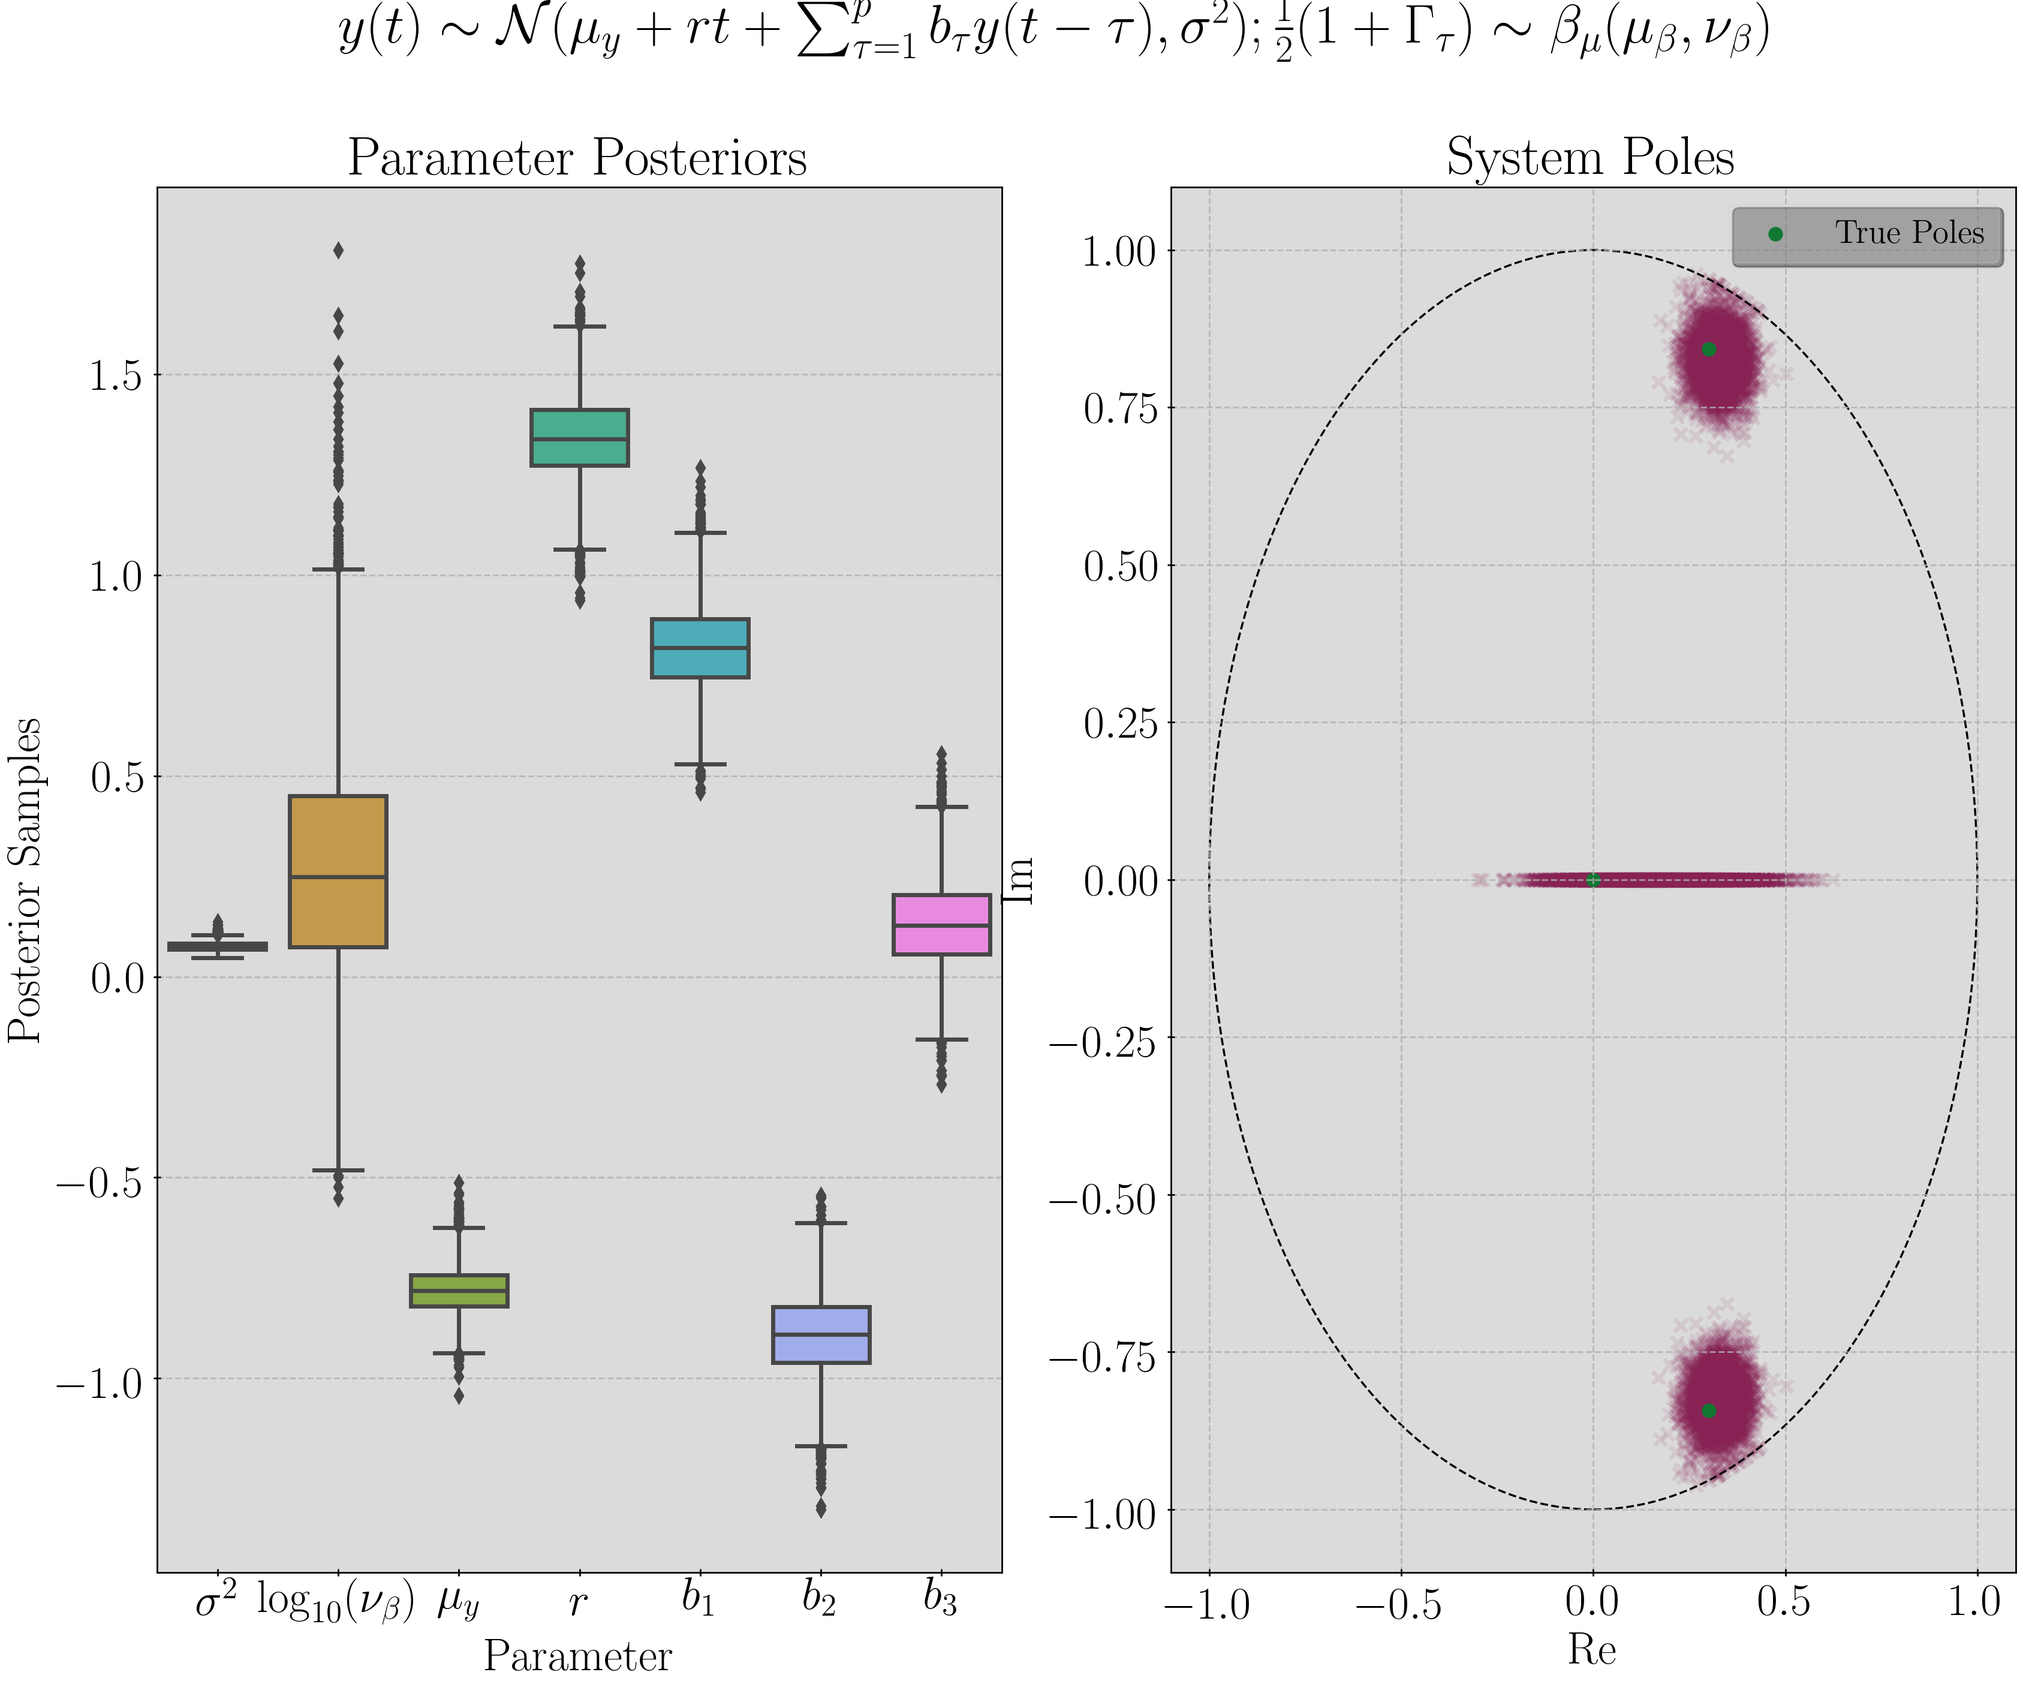
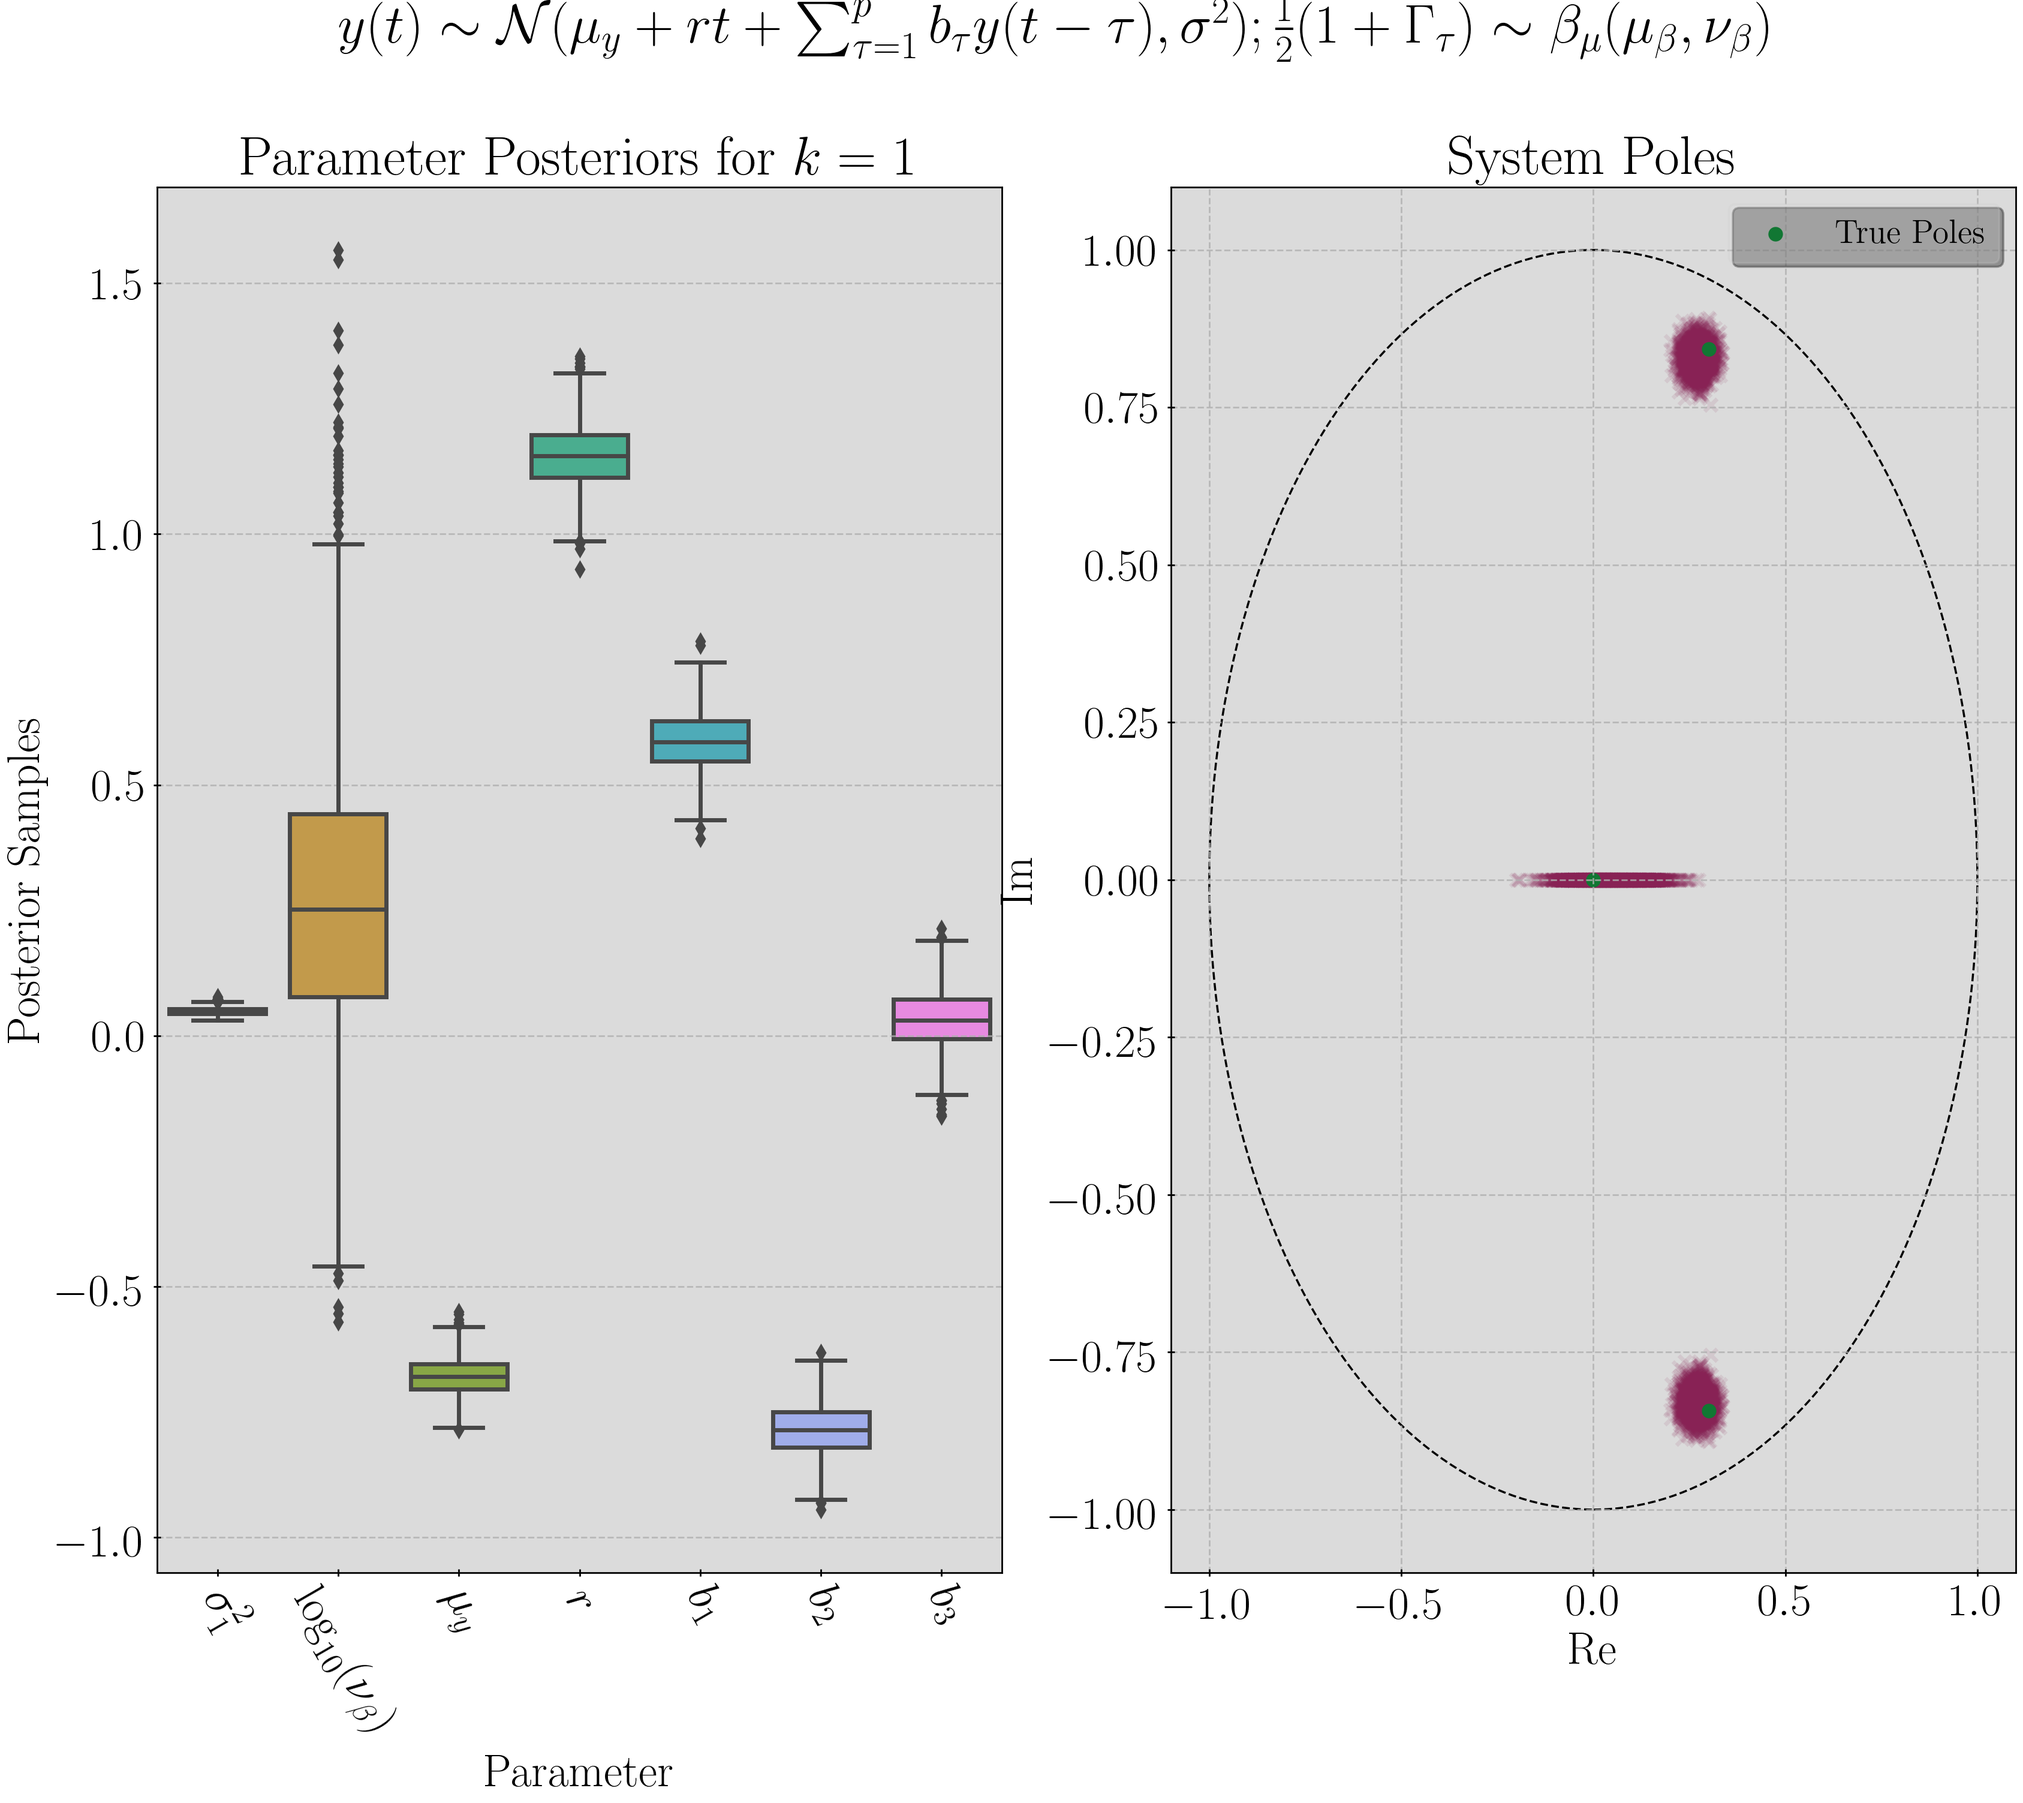
Put a prior back on gamma.

diff --git a/stanlearn/examples/time_series.py b/stanlearn/examples/time_series.py
@@ -66,12 +66,12 @@ def basic_example():
     return
 
 
-def mixture_example():
+def mixture_example1():
     p_max = 5
     T = 1000
     v = 0.25 * np.random.normal(size=T + p_max)
     y = np.array(v)
-    b1 = 0.6
+    b1 = 1.6
     b2 = -0.8
 
     mu = -0.7
@@ -108,6 +108,113 @@ def mixture_example():
     axes[1].legend(loc="upper right")
     fig.savefig(FIGURE_DIR + "mixture_time_series_param_posterior.png")
     fig.savefig(FIGURE_DIR + "mixture_time_series_param_posterior.pdf")
+    plt.show()
+
+    return
+
+def mixture_example2():
+    p_max = 5
+    T = 10000
+    v = 0.25 * np.random.normal(size=T + p_max)
+    y = np.array(v)
+
+    mu = -0.7
+    r = 1.2 / T
+
+    b1 = 0.9
+    b2 = 0.5
+    b3 = -0.8
+
+    true_roots = polyroots(np.append(
+        -np.array([b1, b2, b3])[::-1], 1))
+    print(np.abs(true_roots))
+
+    for t in range(T):
+        y[t] = b1 * y[t - 1] + b2 * y[t - 2] + b3 * y[t - 3] + v[t]
+    y = y + mu + r * np.arange(-p_max, T)
+    y = y[p_max:].reshape(-1, 1)
+
+    mu_th = np.ones(p_max + 1)  # / np.arange(1, p_max + 2)**(1./3)
+    mu_th /= sum(mu_th)
+
+    ar = BayesMixtureAR(normalize=False, p_max=p_max, n_chains=4, warmup=3000,
+                        mu_th=mu_th)
+    ar.fit(y)
+
+    ax = ar.plot_ppc(y, show=False)
+    fig = ax.figure
+    # fig.savefig(FIGURE_DIR + "mixture_time_series_ppc.png")
+    # fig.savefig(FIGURE_DIR + "mixture_time_series_ppc.pdf")
+    plt.show()
+
+    fig, axes = plt.subplots(1, 2)
+    axes = axes.ravel()
+    ar.plot_posterior_params(show=False, ax=axes[0])
+    ar.plot_poles(p=None, show=False, ax=axes[1])
+    axes[1].scatter(true_roots.real, true_roots.imag, marker="o",
+                    label="True Poles", color="#117733")
+    axes[1].legend(loc="upper right")
+    # fig.savefig(FIGURE_DIR + "mixture_time_series_param_posterior.png")
+    # fig.savefig(FIGURE_DIR + "mixture_time_series_param_posterior.pdf")
+    plt.show()
+
+    fig, ax = plt.subplots(1, 1)
+    ar.plot_posterior_params(show=False, ax=ax)
+    plt.show()
+
+    return
+
+def mixture_example2():
+    p_max = 5
+    T = 1000
+    v = 0.25 * np.random.normal(size=T + p_max)
+    y = np.array(v)
+
+    mu = -0.7
+    r = 1.2 / T
+
+    b1 = 0.9
+    b2 = -0.5
+    b3 = 0.0
+    b4 = 0.6
+    b5 = -0.5
+
+    true_roots = polyroots(np.append(
+        -np.array([b1, b2, b3, b4, b5])[::-1], 1))
+    print(np.abs(true_roots))
+
+    for t in range(T):
+        y[t] = (b1 * y[t - 1] + b2 * y[t - 2] + b3 * y[t - 3] +
+                b4 * y[t - 4] + b5 * y[t - 5] + v[t])
+    y = y + mu + r * np.arange(-p_max, T)
+    y = y[p_max:].reshape(-1, 1)
+
+    mu_th = np.ones(p_max + 1)  # / np.arange(1, p_max + 2)**(1./3)
+    mu_th /= sum(mu_th)
+
+    ar = BayesMixtureAR(normalize=False, p_max=p_max, n_chains=4, warmup=3000,
+                        mu_th=mu_th)
+    ar.fit(y)
+
+    ax = ar.plot_ppc(y, show=False)
+    fig = ax.figure
+    # fig.savefig(FIGURE_DIR + "mixture_time_series_ppc.png")
+    # fig.savefig(FIGURE_DIR + "mixture_time_series_ppc.pdf")
+    plt.show()
+
+    fig, axes = plt.subplots(1, 2)
+    axes = axes.ravel()
+    ar.plot_posterior_params(show=False, ax=axes[0])
+    ar.plot_poles(p=None, show=False, ax=axes[1])
+    axes[1].scatter(true_roots.real, true_roots.imag, marker="o",
+                    label="True Poles", color="#117733")
+    axes[1].legend(loc="upper right")
+    # fig.savefig(FIGURE_DIR + "mixture_time_series_param_posterior.png")
+    # fig.savefig(FIGURE_DIR + "mixture_time_series_param_posterior.pdf")
+    plt.show()
+
+    fig, ax = plt.subplots(1, 1)
+    ar.plot_posterior_params(show=False, ax=ax)
     plt.show()
 
     return
